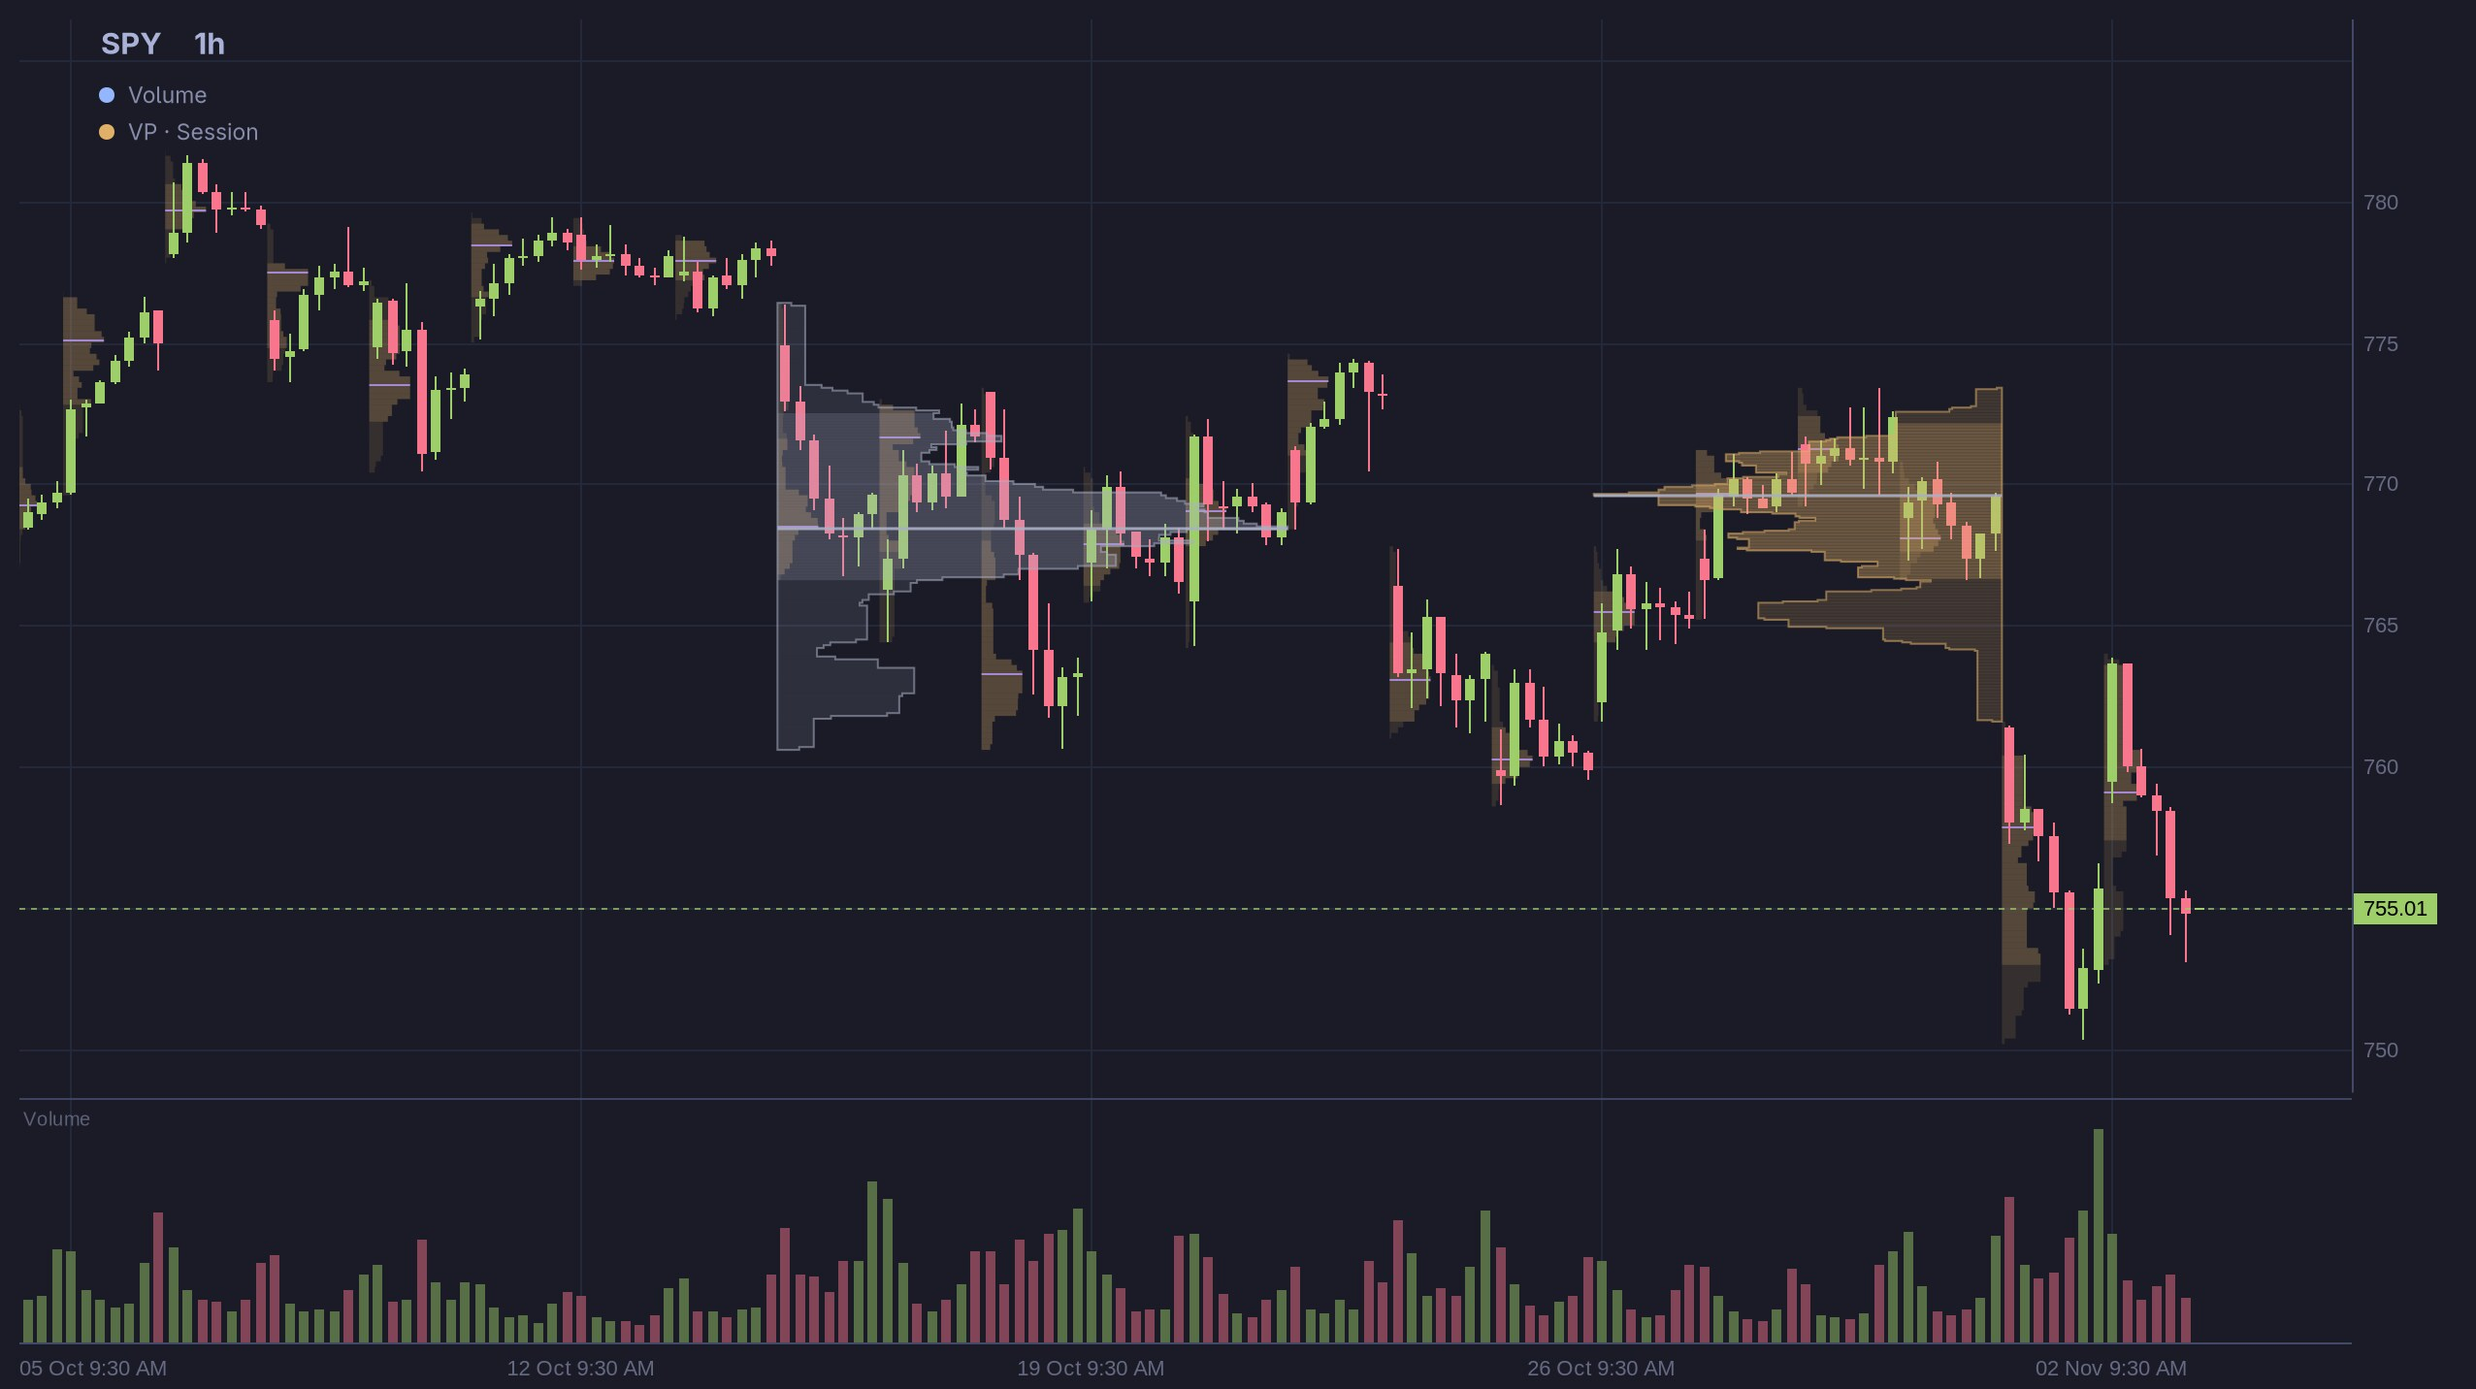
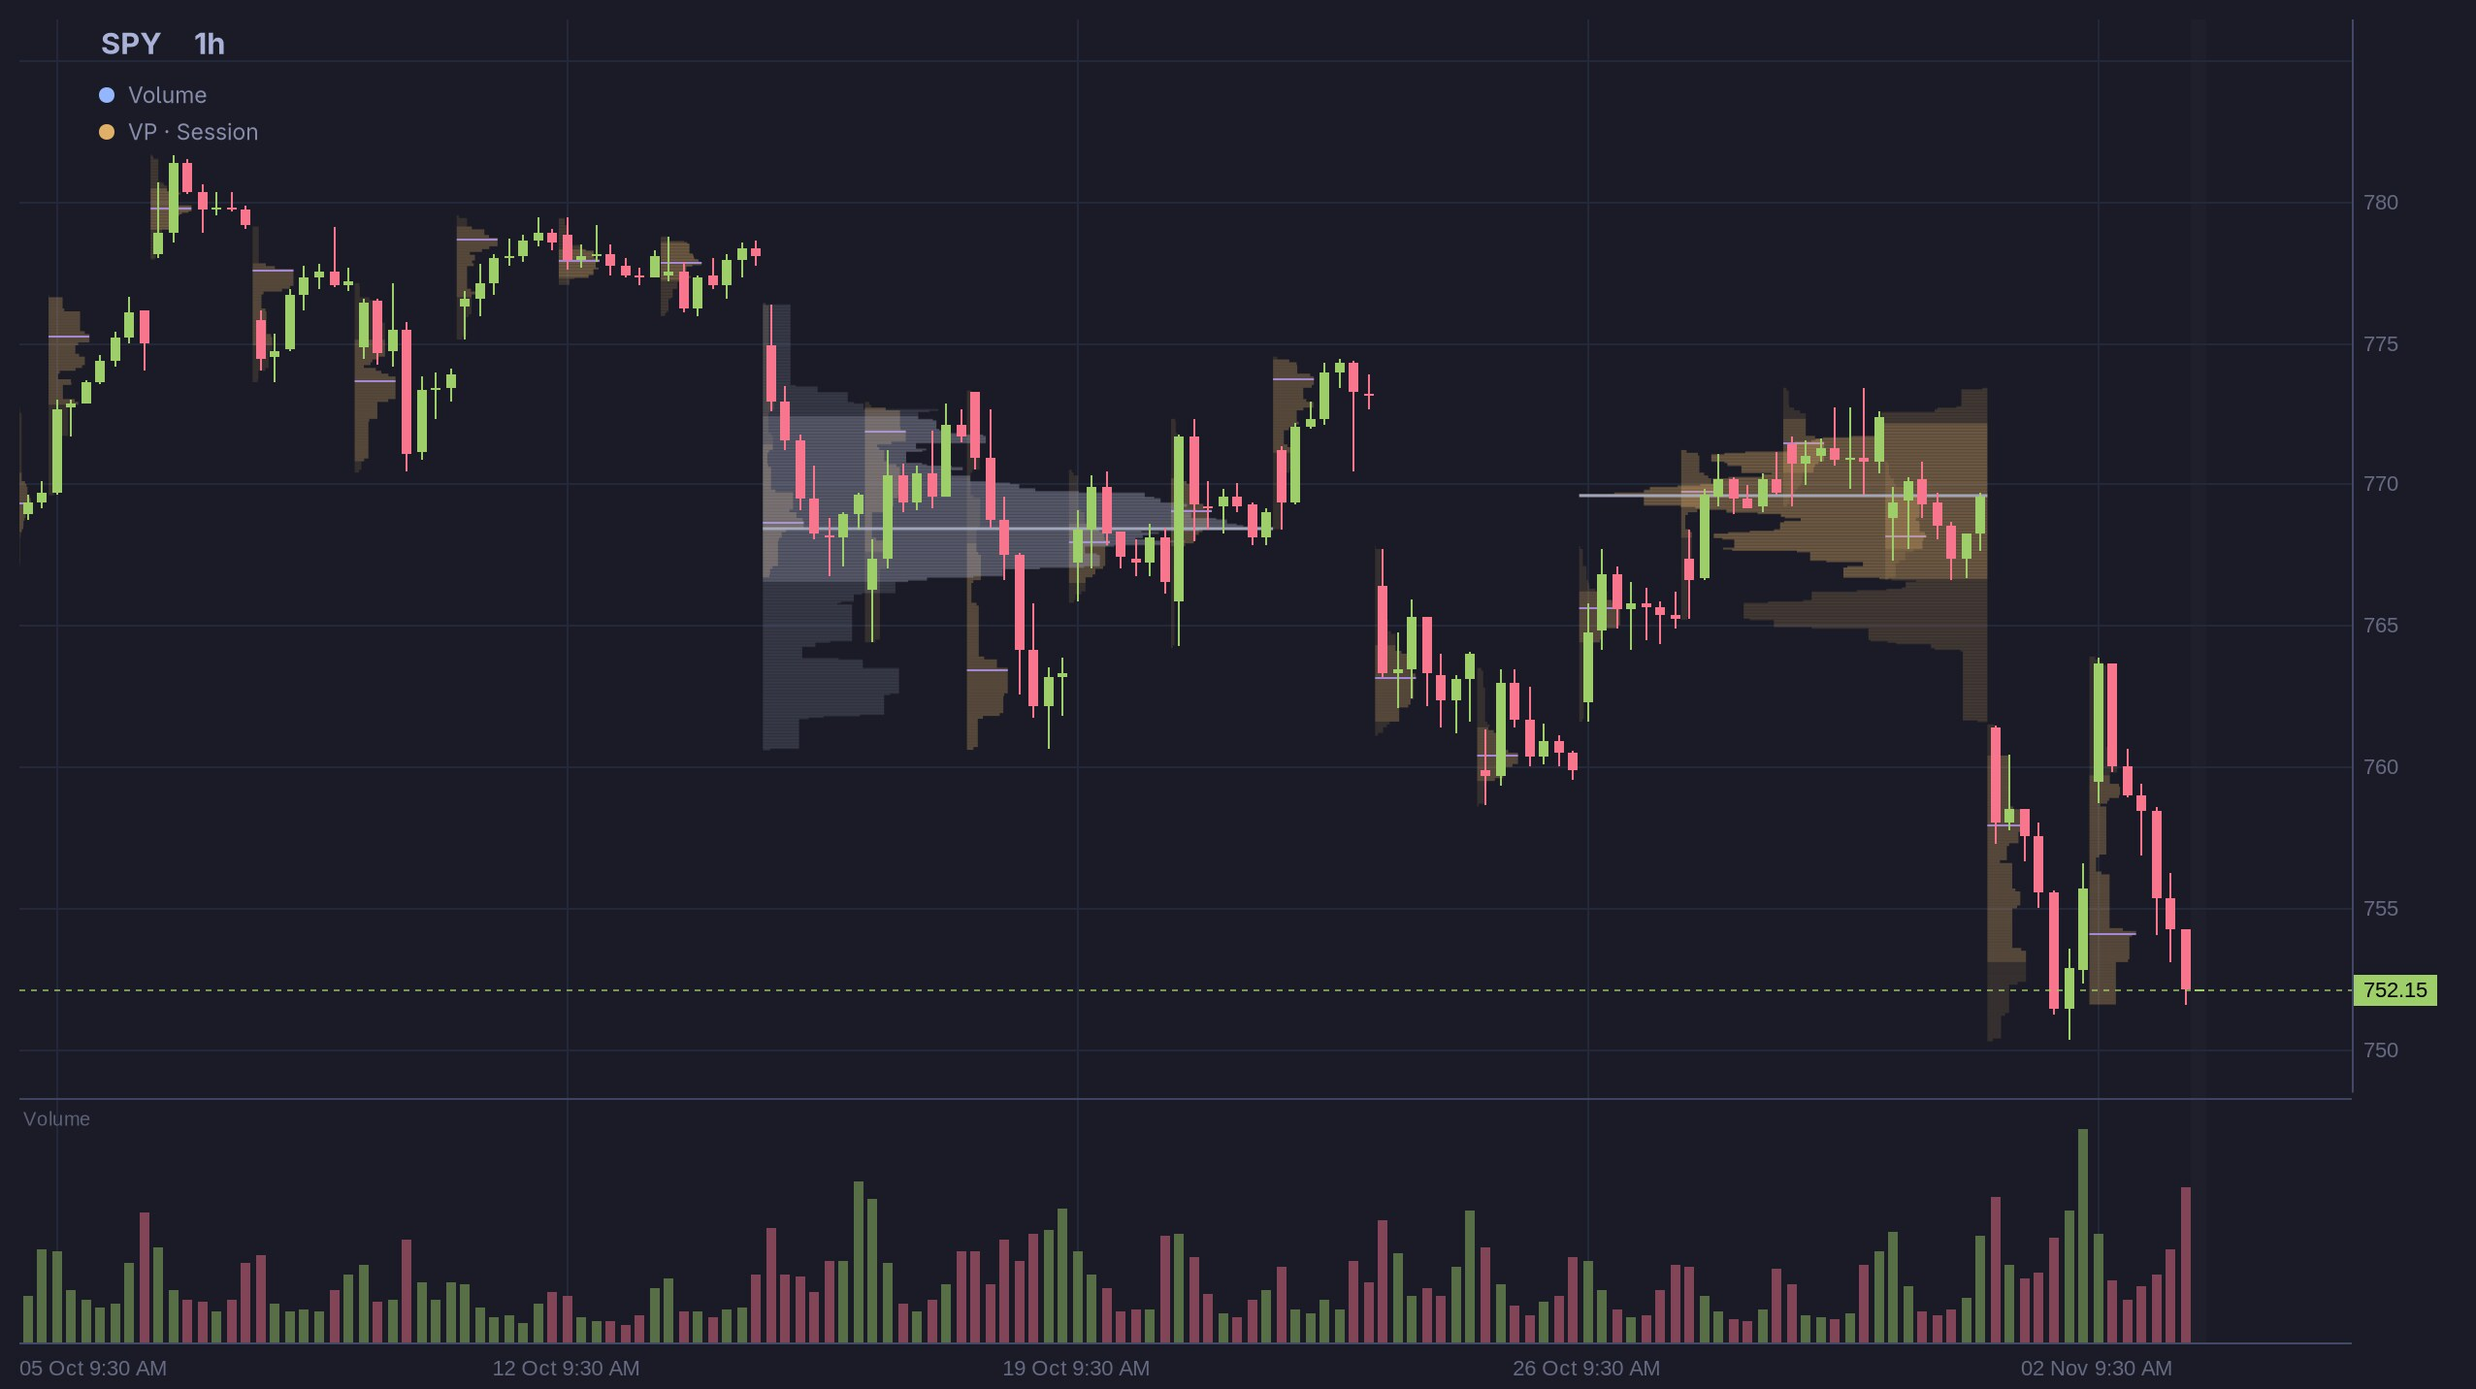
Paint volume profile drawings under the bars, with a grip at each corner
The study already shaded under the candles; a drawing of a profile now does too,
its grips still on top. The four corners each move their side's edge, sideways.
Filled edges at 0.45, the softest that is still a rim on every theme.

diff --git a/crates/omacharts-engine/src/drawings.rs b/crates/omacharts-engine/src/drawings.rs
@@ -495,6 +495,14 @@ impl Kind {
         matches!(self, Kind::Rect | Kind::Ellipse)
     }
 
+    /// Whether it is painted under the bars rather than over them. A profile
+    /// is shading, as the study's profiles and a band's fill are, and a
+    /// shade over the candles hides what it describes; everything else is
+    /// a mark on the chart, and goes on top.
+    pub fn under_bars(self) -> bool {
+        self == Kind::Profile
+    }
+
     /// Whether it can carry words: the text itself, and every figure. A
     /// profile cannot, since it is read for its rows and has no inside free
     /// of them.
@@ -1118,9 +1126,11 @@ pub const PROFILE_ALPHA: f64 = 0.30;
 pub const PROFILE_ROW_SHARE: f64 = 0.14 / 0.30;
 
 /// The hairline around a filled profile's silhouette, the drawing's and the
-/// study's alike. Soft on purpose: 0.55 cleared both tints by the most and
-/// read as a line drawn round the rows rather than their edge.
-pub const PROFILE_EDGE_ALPHA: f64 = 0.40;
+/// study's alike. Soft on purpose: 0.55 read as a box drawn round the rows
+/// on a light theme, and 0.45 is the lowest that is still a rim on every
+/// shipped theme, 1.59:1 on the chart and 0.05 ΔE off its own fill at worst,
+/// and stays one at 20% transparency.
+pub const PROFILE_EDGE_ALPHA: f64 = 0.45;
 
 /// The point of control's strength, the study's. Its width is its own,
 /// [`ProfileLook::poc_width`], a stroke where the study's is a hairline.
@@ -1759,6 +1769,20 @@ impl Drawing {
     /// rightward at all, since both its side grips sit on one spot and the
     /// left one is found first.
     pub fn drag_grip(&mut self, grip: Grip, at: Anchor) -> Grip {
+        // A profile's corners are its two edges: dragged past the other one,
+        // the hand holds the matching corner on the far side.
+        if self.kind == Kind::Profile {
+            let Some(side) = profile_side(grip) else { return grip };
+            let held = self.drag_grip_edge(side, at);
+            return match held == side {
+                true => grip,
+                false => mirrored(grip),
+            };
+        }
+        self.drag_grip_edge(grip, at)
+    }
+
+    fn drag_grip_edge(&mut self, grip: Grip, at: Anchor) -> Grip {
         self.move_grip(grip, at);
         let (earlier, later) = (self.from.ts.min(self.to.ts), self.from.ts.max(self.to.ts));
         let (lower, higher) = (self.from.price.min(self.to.price), self.from.price.max(self.to.price));
@@ -1795,6 +1819,14 @@ impl Drawing {
             self.to.price = at.price;
             return;
         }
+        // Whichever corner of a profile, its edge on that side.
+        let grip = match self.kind {
+            Kind::Profile => match profile_side(grip) {
+                Some(side) => side,
+                None => return,
+            },
+            _ => grip,
+        };
         if let Grip::Corner(n) = grip {
             if let Some(corner) = self.points.get_mut(n) {
                 *corner = at;
@@ -1885,12 +1917,34 @@ impl Drawing {
             // its properties, and a grip on its corner would promise a
             // stretch that is not on offer.
             Kind::Text => &[],
-            // Its two edges, which are the span it covers. Nothing moves its
-            // prices: those are the bars'.
-            Kind::Profile => &[Grip::Left, Grip::Right],
+            // A grip at each corner, where a hand looks for one, but all
+            // four move only the edge they are on: the span is all a profile
+            // has to change. Nothing moves its prices; those are the bars'.
+            Kind::Profile => &[Grip::From, Grip::FromTo, Grip::ToFrom, Grip::To],
             // Answered above, where the number of them is known.
             Kind::Zigzag => &[],
         }
+    }
+}
+
+/// The edge of a profile a corner grip moves: the left two its start, the
+/// right two its end.
+fn profile_side(grip: Grip) -> Option<Grip> {
+    match grip {
+        Grip::From | Grip::FromTo | Grip::Left => Some(Grip::Left),
+        Grip::To | Grip::ToFrom | Grip::Right => Some(Grip::Right),
+        _ => None,
+    }
+}
+
+/// The corner across from it on the other edge, at the same height.
+fn mirrored(grip: Grip) -> Grip {
+    match grip {
+        Grip::From => Grip::ToFrom,
+        Grip::ToFrom => Grip::From,
+        Grip::FromTo => Grip::To,
+        Grip::To => Grip::FromTo,
+        grip => grip,
     }
 }
 
@@ -1984,9 +2038,16 @@ impl Projected {
         }
         match (self.kind, grip) {
             (Kind::Text, _) => None,
-            (Kind::Profile, Grip::Left | Grip::Right) => {
+            // The corners of the box it fills, the left two on its start and
+            // the right two on its end, wherever its anchors are.
+            (Kind::Profile, Grip::From | Grip::FromTo | Grip::ToFrom | Grip::To) => {
                 let (left, top, w, h) = self.bounds();
-                Some((if grip == Grip::Left { left } else { left + w }, top + h / 2.0))
+                Some(match grip {
+                    Grip::From => (left, top),
+                    Grip::FromTo => (left, top + h),
+                    Grip::ToFrom => (left + w, top),
+                    _ => (left + w, top + h),
+                })
             }
             (Kind::Profile, _) => None,
             (_, Grip::From) => Some(self.from),
@@ -3416,7 +3477,11 @@ mod edge_grip_tests {
     #[test]
     fn a_profile_is_resized_by_its_edges_and_never_moved_whole() {
         let mut drawing = Drawing::new(Kind::Profile, Anchor::new(100, 10.0), Anchor::new(200, 10.0));
-        assert_eq!(drawing.grips(), vec![Grip::Left, Grip::Right]);
+        assert_eq!(drawing.grips(), vec![Grip::From, Grip::FromTo, Grip::ToFrom, Grip::To]);
+        // A top corner moves only the time of its edge.
+        drawing.move_grip(Grip::From, Anchor::new(50, 99.0));
+        assert_eq!((drawing.from.ts, drawing.from.price), (50, 10.0));
+        drawing.move_grip(Grip::From, Anchor::new(100, 99.0));
         drawing.shift(50, 1.0);
         assert_eq!((drawing.from.ts, drawing.to.ts), (100, 200), "not moved whole");
         drawing.move_grip(Grip::Right, Anchor::new(300, 0.0));

diff --git a/src/ui/chart.rs b/src/ui/chart.rs
@@ -1607,8 +1607,10 @@ impl State {
         match grip {
             Grip::Top | Grip::Bottom => "ns-resize",
             Grip::Left | Grip::Right => "ew-resize",
-            // Not moved whole, so nothing to take hold of.
+            // Not moved whole, so nothing to take hold of; and its corners
+            // move only sideways.
             Grip::Body if drawing.kind == DrawingKind::Profile => "default",
+            _ if drawing.kind == DrawingKind::Profile => "ew-resize",
             Grip::Body => match held {
                 true => "grabbing",
                 false => "grab",
@@ -5029,10 +5031,11 @@ fn draw(cr: &cairo::Context, width: f64, height: f64, state: &State) {
     cr.rectangle(plot_x, price_y, plot_w, price_h);
     cr.clip();
     draw_indicator_fills(cr, state, &columns, &to_y);
+    draw_drawings(cr, state, &plan, &scale, true);
     draw_candles(cr, state, &columns, &to_y);
     draw_indicator_lines(cr, state, &columns, &to_y);
     cr.restore().ok();
-    draw_drawings(cr, state, &plan, &scale);
+    draw_drawings(cr, state, &plan, &scale, false);
 
     for (at, row) in plan.rows.iter().enumerate() {
         draw_row_edge(cr, state, &plan, at);
@@ -6546,7 +6549,11 @@ enum Lit {
 /// What has been drawn on the symbol, over the candles and the indicator
 /// lines and under the strips, clipped to the price plot so a line drawn
 /// off the top does not cross an RSI.
-fn draw_drawings(cr: &cairo::Context, state: &State, plan: &Layout, scale: &PriceScale) {
+///
+/// In two passes: `under` the bars for the kinds that are shading, and over
+/// them for the rest — with the grips of the shaded ones, since a grip under
+/// a candle is one nobody can find.
+fn draw_drawings(cr: &cairo::Context, state: &State, plan: &Layout, scale: &PriceScale, under: bool) {
     if state.drawings.is_empty() || !state.show_drawings {
         return;
     }
@@ -6554,12 +6561,21 @@ fn draw_drawings(cr: &cairo::Context, state: &State, plan: &Layout, scale: &Pric
     cr.rectangle(plan.plot_x, plan.price_y, plan.plot_w, plan.price_h);
     cr.clip();
     for (index, drawing) in state.drawings.iter().enumerate() {
+        let shaded = drawing.kind.under_bars();
+        let selected = state.selected.contains(&index);
+        if shaded != under && !(shaded && selected) {
+            continue;
+        }
         let projected = state.project(plan, scale, drawing);
         let typing = state.editing == Some(index);
-        let selected = state.selected.contains(&index);
         let lit = selected.then(|| state.lit_grip(index)).flatten();
+        if shaded && !under {
+            let colour = drawing.style(&state.configs).colour.hex(&state.theme);
+            draw_grips(cr, state, &projected, drawing, lit, &colour);
+            continue;
+        }
         let to_y = |price: f64| scale.to_y(price, plan.price_y, plan.price_h);
-        draw_drawing(cr, state, &projected, drawing, selected, typing, lit, &to_y);
+        draw_drawing(cr, state, &projected, drawing, selected && !shaded, typing, lit, &to_y);
         if typing {
             draw_editing_ground(cr, state, drawing);
         }
@@ -6710,29 +6726,41 @@ fn draw_drawing(
             let _ = cr.stroke();
             cr.set_dash(&[], 0.0);
         }
-        for grip in drawing.grips() {
-            let Some((x, y)) = projected.grip(grip) else { continue };
-            // The grip under the hand says so: without it, nothing tells a
-            // hand reaching for a point whether a press takes the point or
-            // the line, nor, once dragging, which point it has.
-            let shine = lit.filter(|(at, _)| *at == grip).map(|(_, how)| how);
-            if let Some(how) = shine {
-                let (half, alpha) = match how {
-                    Lit::Hover => (GRIP_HALO, 0.22),
-                    Lit::Held => (GRIP_HALO + 2.0, 0.32),
-                };
-                colors::set_source_alpha(cr, &colour, alpha);
-                cr.rectangle(x - half, y - half, 2.0 * half, 2.0 * half);
-                let _ = cr.fill();
-            }
-            let half = GRIP_HALF + if shine.is_some() { 1.0 } else { 0.0 };
-            colors::set_source(cr, &state.theme.ui.background);
-            cr.rectangle(x - half - 1.0, y - half - 1.0, 2.0 * half + 2.0, 2.0 * half + 2.0);
-            let _ = cr.fill();
-            colors::set_source(cr, &colour);
+        draw_grips(cr, state, projected, drawing, lit, &colour);
+    }
+}
+
+/// The squares at a selected drawing's grips, the one under the hand lit.
+fn draw_grips(
+    cr: &cairo::Context,
+    state: &State,
+    projected: &Projected,
+    drawing: &Drawing,
+    lit: Option<(Grip, Lit)>,
+    colour: &str,
+) {
+    for grip in drawing.grips() {
+        let Some((x, y)) = projected.grip(grip) else { continue };
+        // The grip under the hand says so: without it, nothing tells a
+        // hand reaching for a point whether a press takes the point or
+        // the line, nor, once dragging, which point it has.
+        let shine = lit.filter(|(at, _)| *at == grip).map(|(_, how)| how);
+        if let Some(how) = shine {
+            let (half, alpha) = match how {
+                Lit::Hover => (GRIP_HALO, 0.22),
+                Lit::Held => (GRIP_HALO + 2.0, 0.32),
+            };
+            colors::set_source_alpha(cr, colour, alpha);
             cr.rectangle(x - half, y - half, 2.0 * half, 2.0 * half);
             let _ = cr.fill();
         }
+        let half = GRIP_HALF + if shine.is_some() { 1.0 } else { 0.0 };
+        colors::set_source(cr, &state.theme.ui.background);
+        cr.rectangle(x - half - 1.0, y - half - 1.0, 2.0 * half + 2.0, 2.0 * half + 2.0);
+        let _ = cr.fill();
+        colors::set_source(cr, colour);
+        cr.rectangle(x - half, y - half, 2.0 * half, 2.0 * half);
+        let _ = cr.fill();
     }
 }
 

diff --git a/site/manual/drawings.md b/site/manual/drawings.md
@@ -251,7 +251,7 @@ crop: 800,180,960,1240
 
 The volume profile tool draws a profile of the bars in the span you drag across: how much volume traded at each price, the value area drawn stronger, and the point of control as a line across it. It covers any stretch, across sessions or inside one, over a [Volume Profile](/manual/indicators/volume/#volume-profile) study or on its own. Its height is the range of prices those bars reached.
 
-Drag its left or right edge to change the span, and the profile is worked out again. It cannot be moved whole or nudged with the arrow keys; a press on it that drags pans the chart. It takes no text. On a chart of another resolution it is worked out from that chart's bars. A pasted copy lands a few bars to the right of the original.
+It is drawn under the bars, as the study's profiles are, so the candles stay on top. Selected, it has a grip at each corner: the left two move its start and the right two its end, sideways only, and the profile is worked out again. It cannot be moved whole or nudged with the arrow keys; a press on it that drags pans the chart. It takes no text. On a chart of another resolution it is worked out from that chart's bars. A pasted copy lands a few bars to the right of the original.
 
 | Property | Does |
 |---|---|
